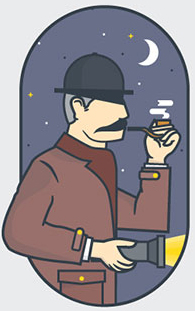
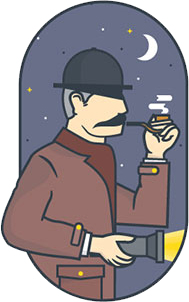
tekstas sutvarkytas

diff --git a/index.html b/index.html
@@ -8,14 +8,43 @@
     <title>Serlokas</title>
 </head>
 
-<body>
-    <div style="background-color: yellow; width: 50%; margin-left: 25%; margin-top: 8%; display: inline-block;">
-        <img src="./serlokas.jpg" alt="Serlokas su pypke" style="background-color: pink; width: 40%; float: left;">
-        <div style="background-color: aquamarine; margin-top: 18%; width: 50%; float: left; margin-left: 10%;">
-            <h1>404</h1>
-            <p>Lorem ipsum dolor sit amet consectetur adipisicing elit. Obcaecati animi illum repellat corporis aliquid voluptate fugit.</p>
-            <p>Lorem ipsum dolor sit, amet consectetur adipisicing elit.</p>
-            <a href="#">Back home</a>
+<body style="background-color:rgb(255, 255, 255);
+color:#423a3a;
+font-family:'Gill Sans', 'Gill Sans MT', Calibri, 'Trebuchet MS', sans-serif ;">
+    <div style="width: 50%; 
+    margin-left: 25%;
+     margin-top: 8%; 
+     display: inline-block;">
+        <img src="./serlokas.jpg" alt="Serlokas su pypke" style="background-color: rgb(255, 255, 255); width: 40%; float: left;">
+        <div style="margin-top: 11%; width: 50%; float: left; margin-left: 10%; text-align: center;">
+            <h1 style="display: inline-block;
+            width: 100%; 
+            font-size: 80px; 
+            font-weight: bold; 
+            margin-top: 0; 
+            margin-bottom: 0;
+            font-family: Arial, Helvetica, sans-serif;">404
+            </h1>
+            <p style="display: inline-block; 
+            width: 100%;  
+            font-size: 22px; 
+            font-weight: bold;
+            margin-top: 0;
+             font-family:'Lucida Sans', 'Lucida Sans Regular', 'Lucida Grande', 'Lucida Sans Unicode', Geneva, Verdana, sans-serif;">
+            Lorem ipsum dolor sit amet consectetur adipisicing elit. Obcaecati animi illum repellat corporis aliquid voluptate fugit.</p>
+            <p style="display: inline-block; 
+            width: 100%;
+            font-size: 14px;
+             font-family:Georgia, 'Times New Roman', Times, serif; ">
+                Lorem ipsum dolor sit, amet consectetur adipisicing elit.</p>
+            <a href="#" style="background-color: #696F89; 
+            color: white; 
+            display: inline-block;   
+            font-size: 20px;
+            padding: 20px;
+            text-transform: uppercase;
+            text-decoration: none;
+            font-family: initial;">Back home</a>
         </div>
     </div>
 </body>
